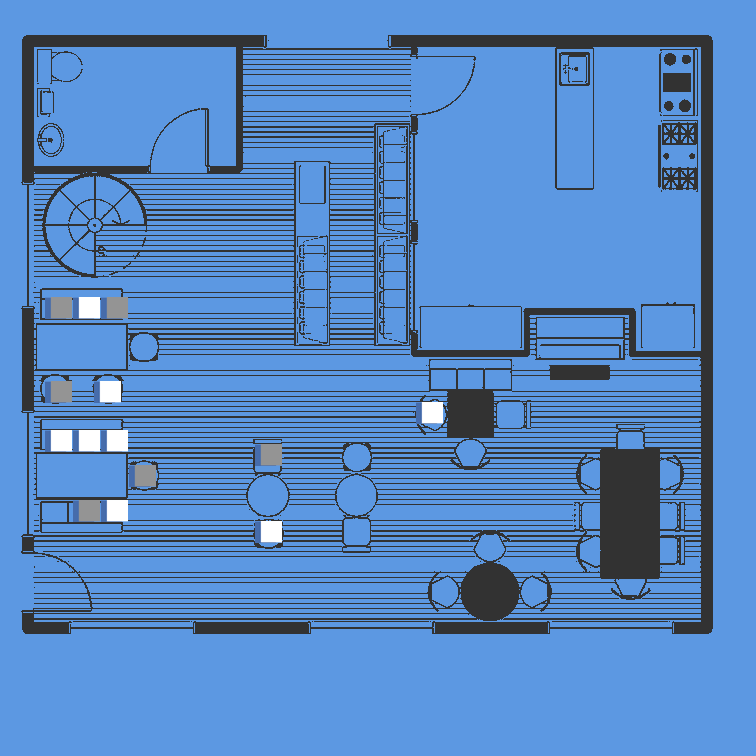
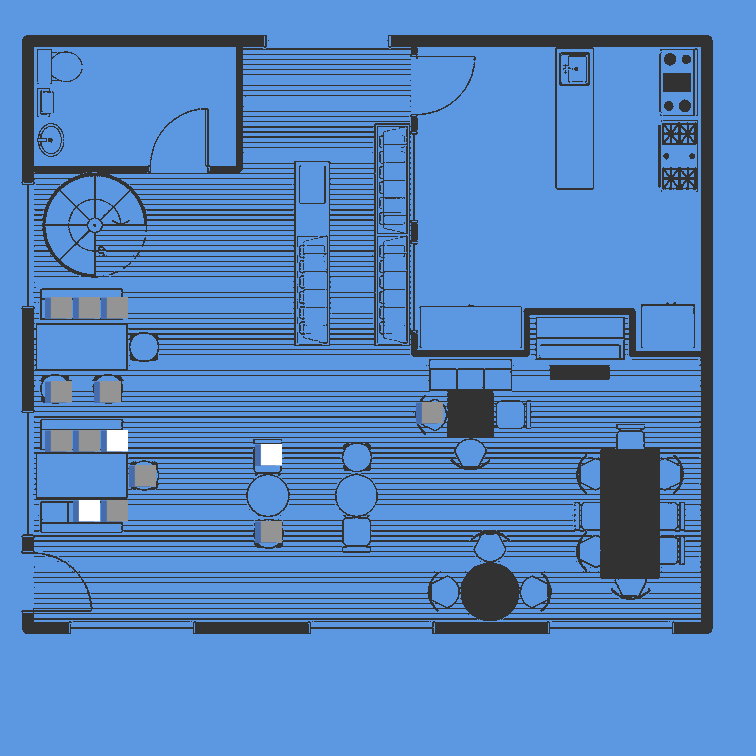
ardredis

diff --git a/Spacey API/Redis/redisDB.py b/Spacey API/Redis/redisDB.py
@@ -198,8 +198,11 @@ if __name__ == "__main__":
     print(r.client.hgetall('users_private_key'))
     print(r.client.smembers('registered_users'))
     print(r.get_registered_restaurants())
-    print(r.client.hgetall('NUS_Macdonalds_coord'))
+    #print(r.client.hgetall('NUS_Macdonalds_coord'))
+    r.client.hdel('NUS_Macdonalds_occupancy', '')
     print(r.client.hgetall('NUS_Macdonalds_occupancy'))
+
+    
     # Life Hax
[1 lines of base64/hex data omitted]
     #r.client.flushdb()

diff --git a/Server/Node Manager/config.py b/Server/Node Manager/config.py
@@ -116,7 +116,7 @@ class ResServer(object):
         while(True):
             for i in range(len(self.available_restaurants_name)):
 
-                #print("checking...", self.available_restaurants_name[i])
+                print("checking...", self.available_restaurants_name[i])
                 
                 occupancy = {}
                 full_name = self.userID + "_" + self.available_restaurants_name[i]

diff --git a/Server/Node Manager/imagegen.py b/Server/Node Manager/imagegen.py
@@ -40,6 +40,7 @@ def imageupdate(res_info, occupancy_new):
 
     res_info.temp = Image.open(res_info.image)
     for i in res_info.occupancy.keys():
+        if not i.isnumeric(): continue
         if res_info.occupancy[i] != occupancy_new[i]:
             if int(occupancy_new[i]): node = node_on
             else                         : node = node_off
